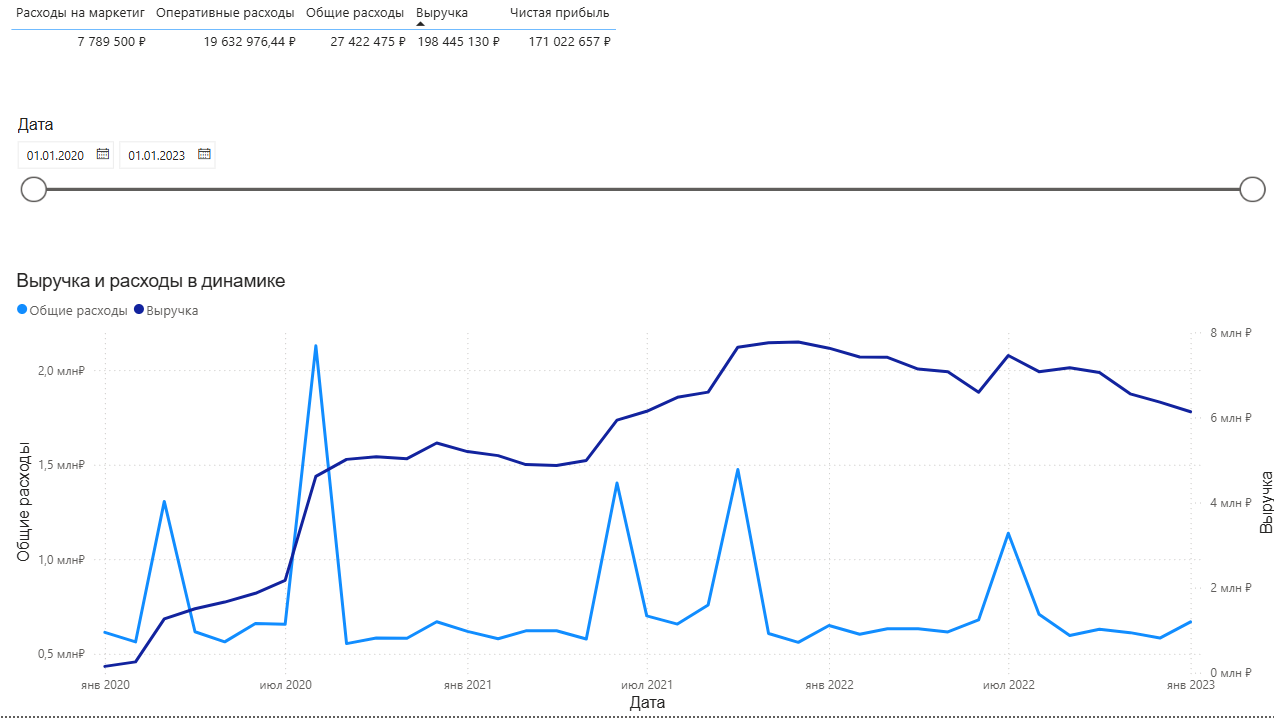
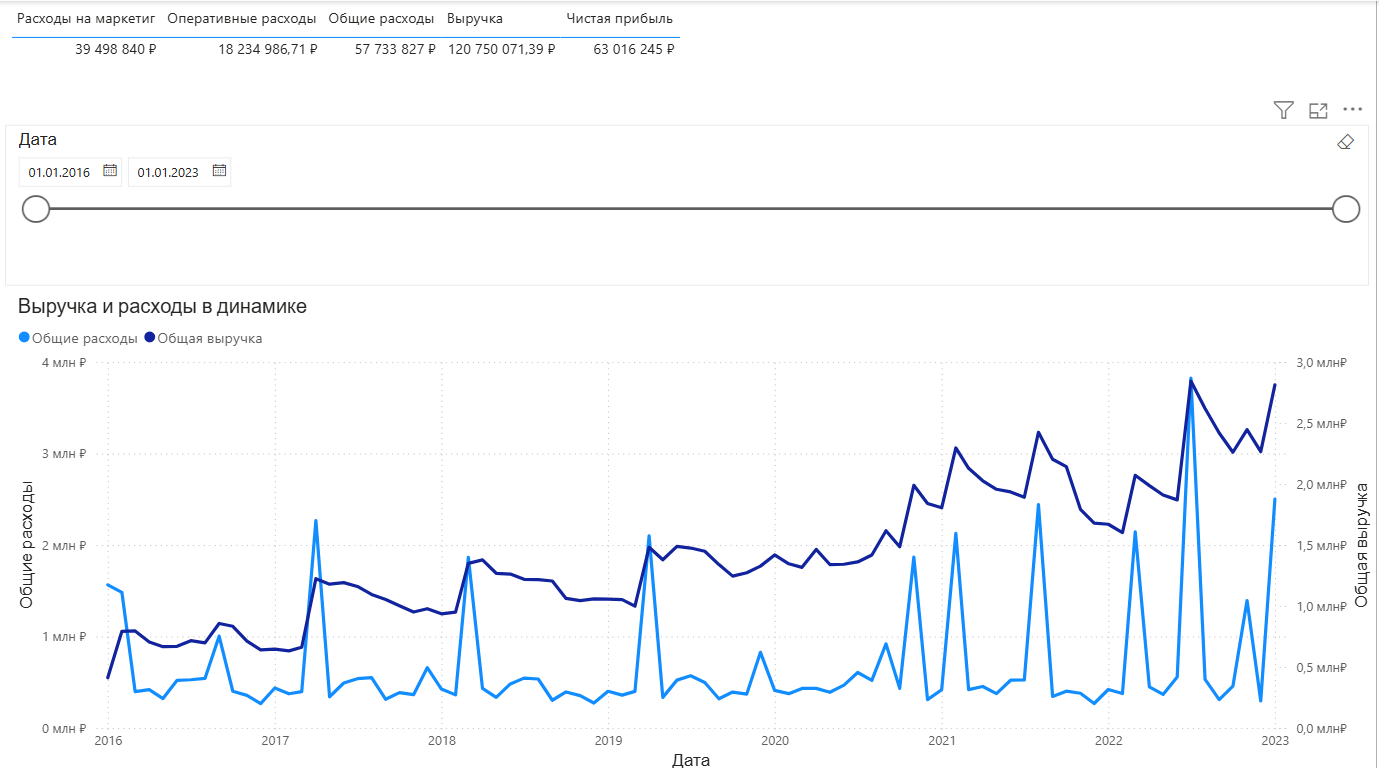
РћР±РЅРѕРІР»РµРЅРёРµ README/Screenshots

diff --git a/ProfitForge/README.md b/ProfitForge/README.md
@@ -27,7 +27,7 @@ Profit Forge Online — это демонстрационный pet-проект
 
 ---
 # Техническое задание
-Дать бизнесу возможность в кратчайшие сроки проверить гипотезы о влиянии изменяемых параметров на колебания retention, дохода с пользователя, жизнеспособности продукта и прогноза на 12 месяцев вперёд. [Подробнее](Technical_Specification.md)
+Дать бизнесу возможность в кратчайшие сроки проверить гипотезы о влиянии изменяемых параметров на колебания retention, дохода с пользователя, жизнеспособности продукта и прогноза на 12 месяцев вперёд. [Подробнее](./docs/Technical_Specification.md)
 
 ---
 ## Ценность проекта

diff --git a/ProfitForge/docs/Data_Dictionary.md b/ProfitForge/docs/Data_Dictionary.md
@@ -64,6 +64,7 @@
 
 | Лист | Назначение |
 |---|---|
+| `marketing_spend` | Неизменяемый источник данных по маркетинговым расходам. Импортируется в первозданном виде после генерации |
 | `CohortData` | Неизменяемый источник "сырой правды" — импорт CSV из Python, стабильный фундамент для всех расчётов ниже. |
 | `MarketingCAC` | Фактическая стоимость привлечения одного пользователя (CAC) по месяцам. |
 | `ChannelMix` | Исторические доли и CPI по каналам — основа для ручного управления CAC. |
